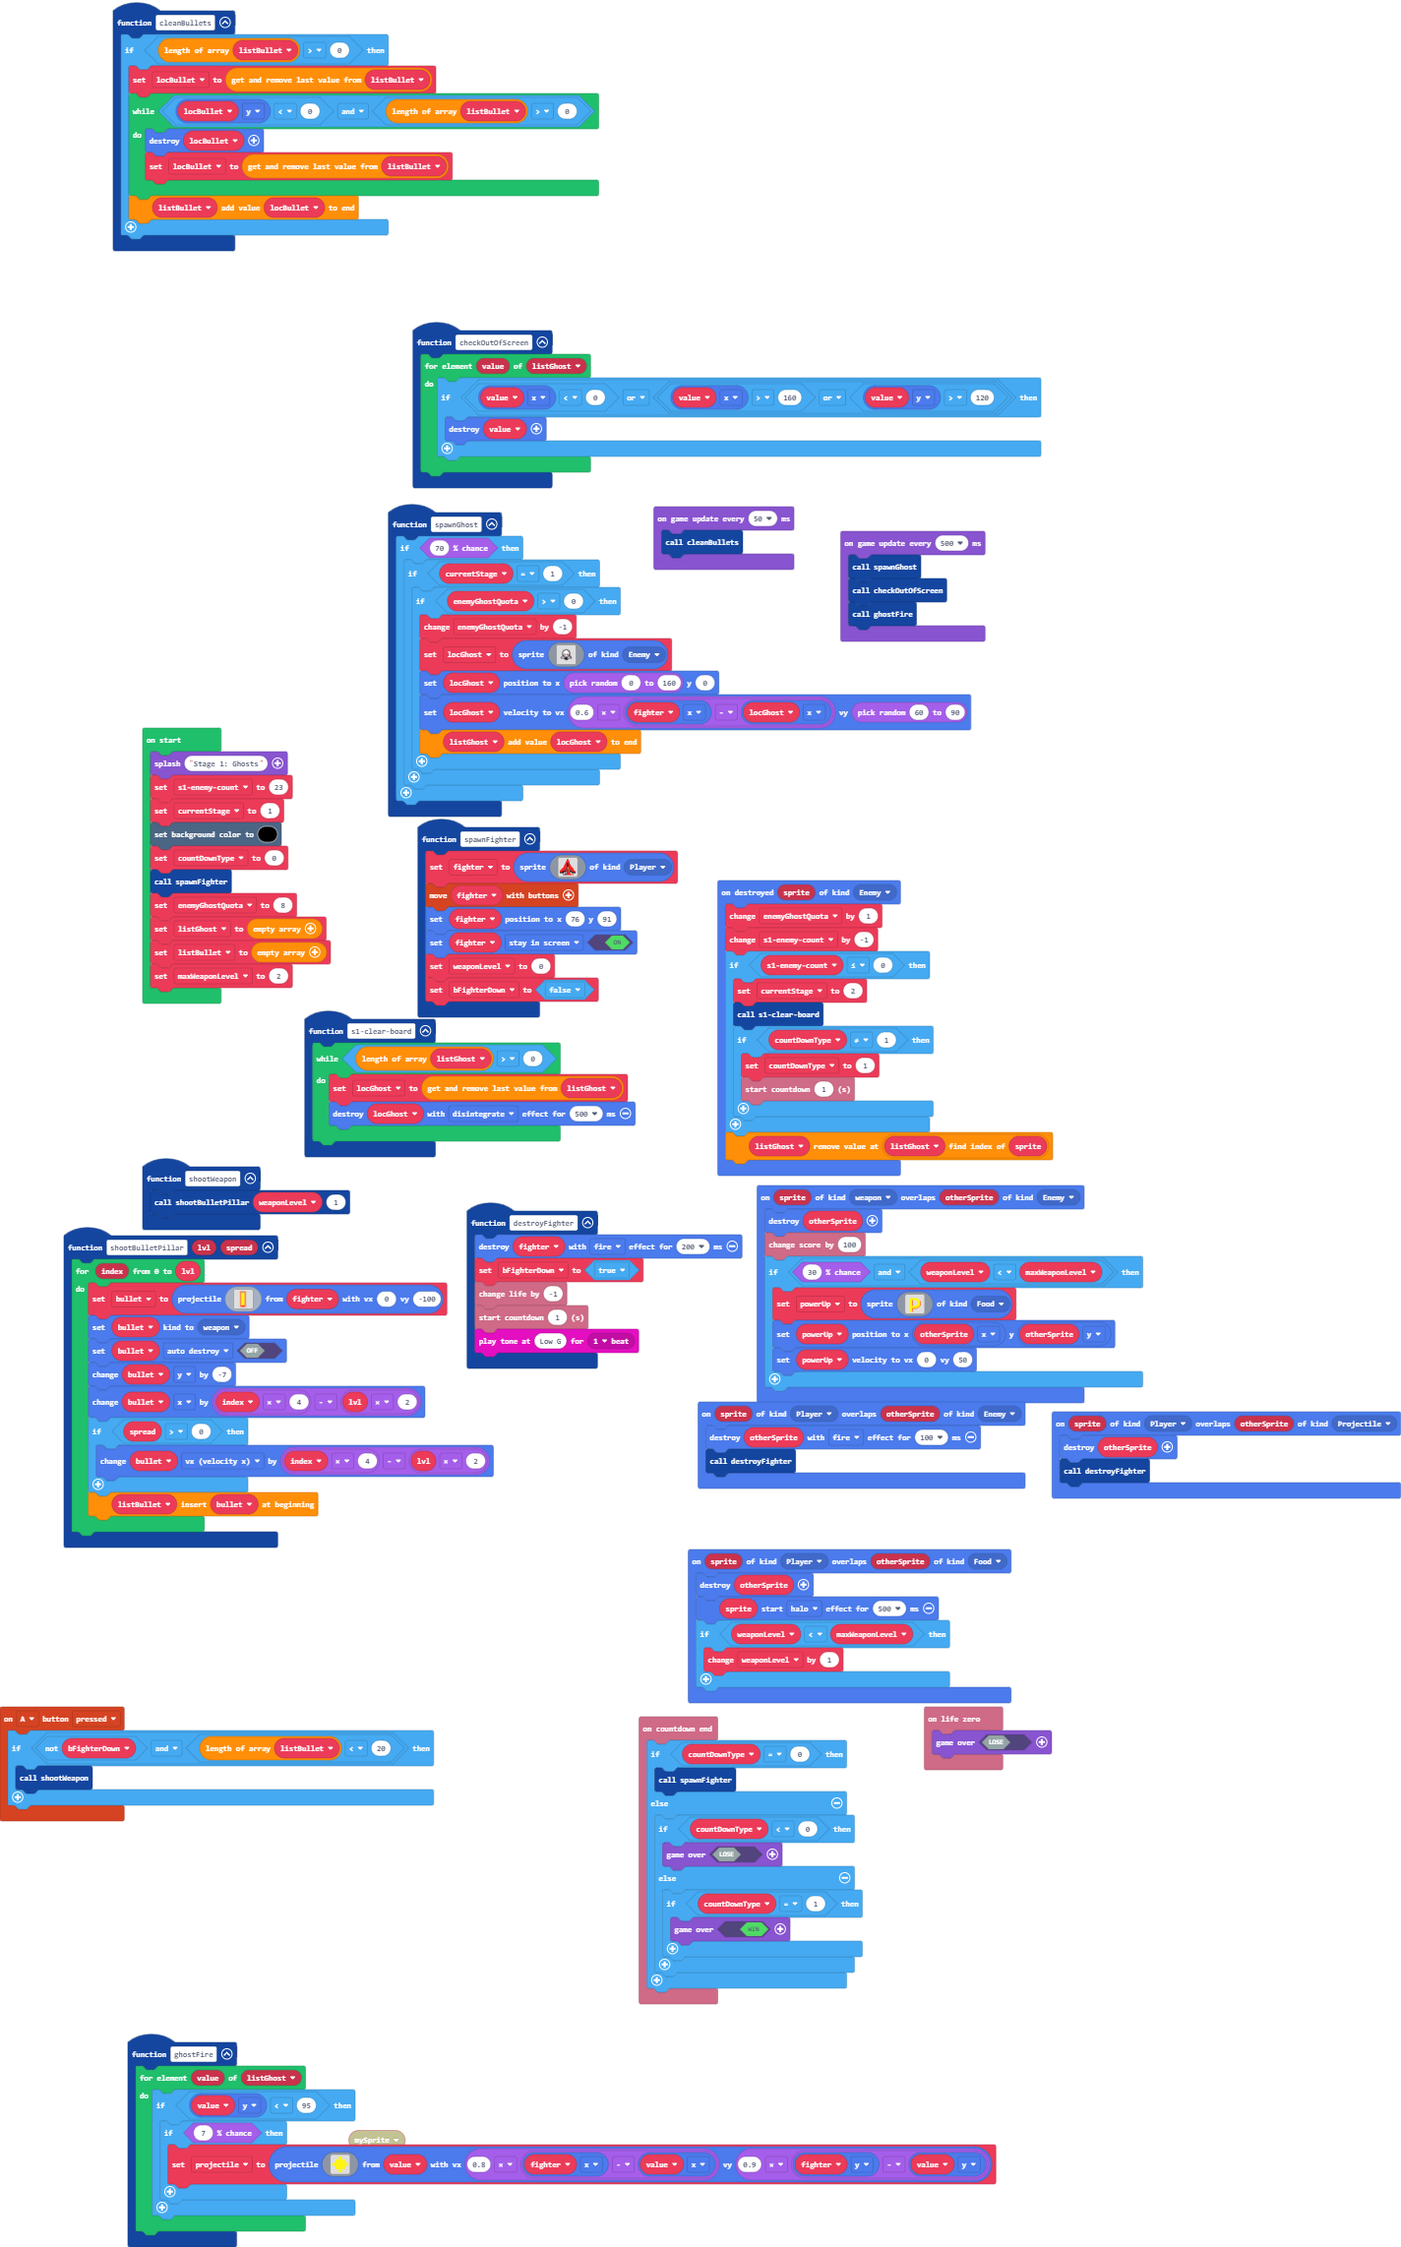
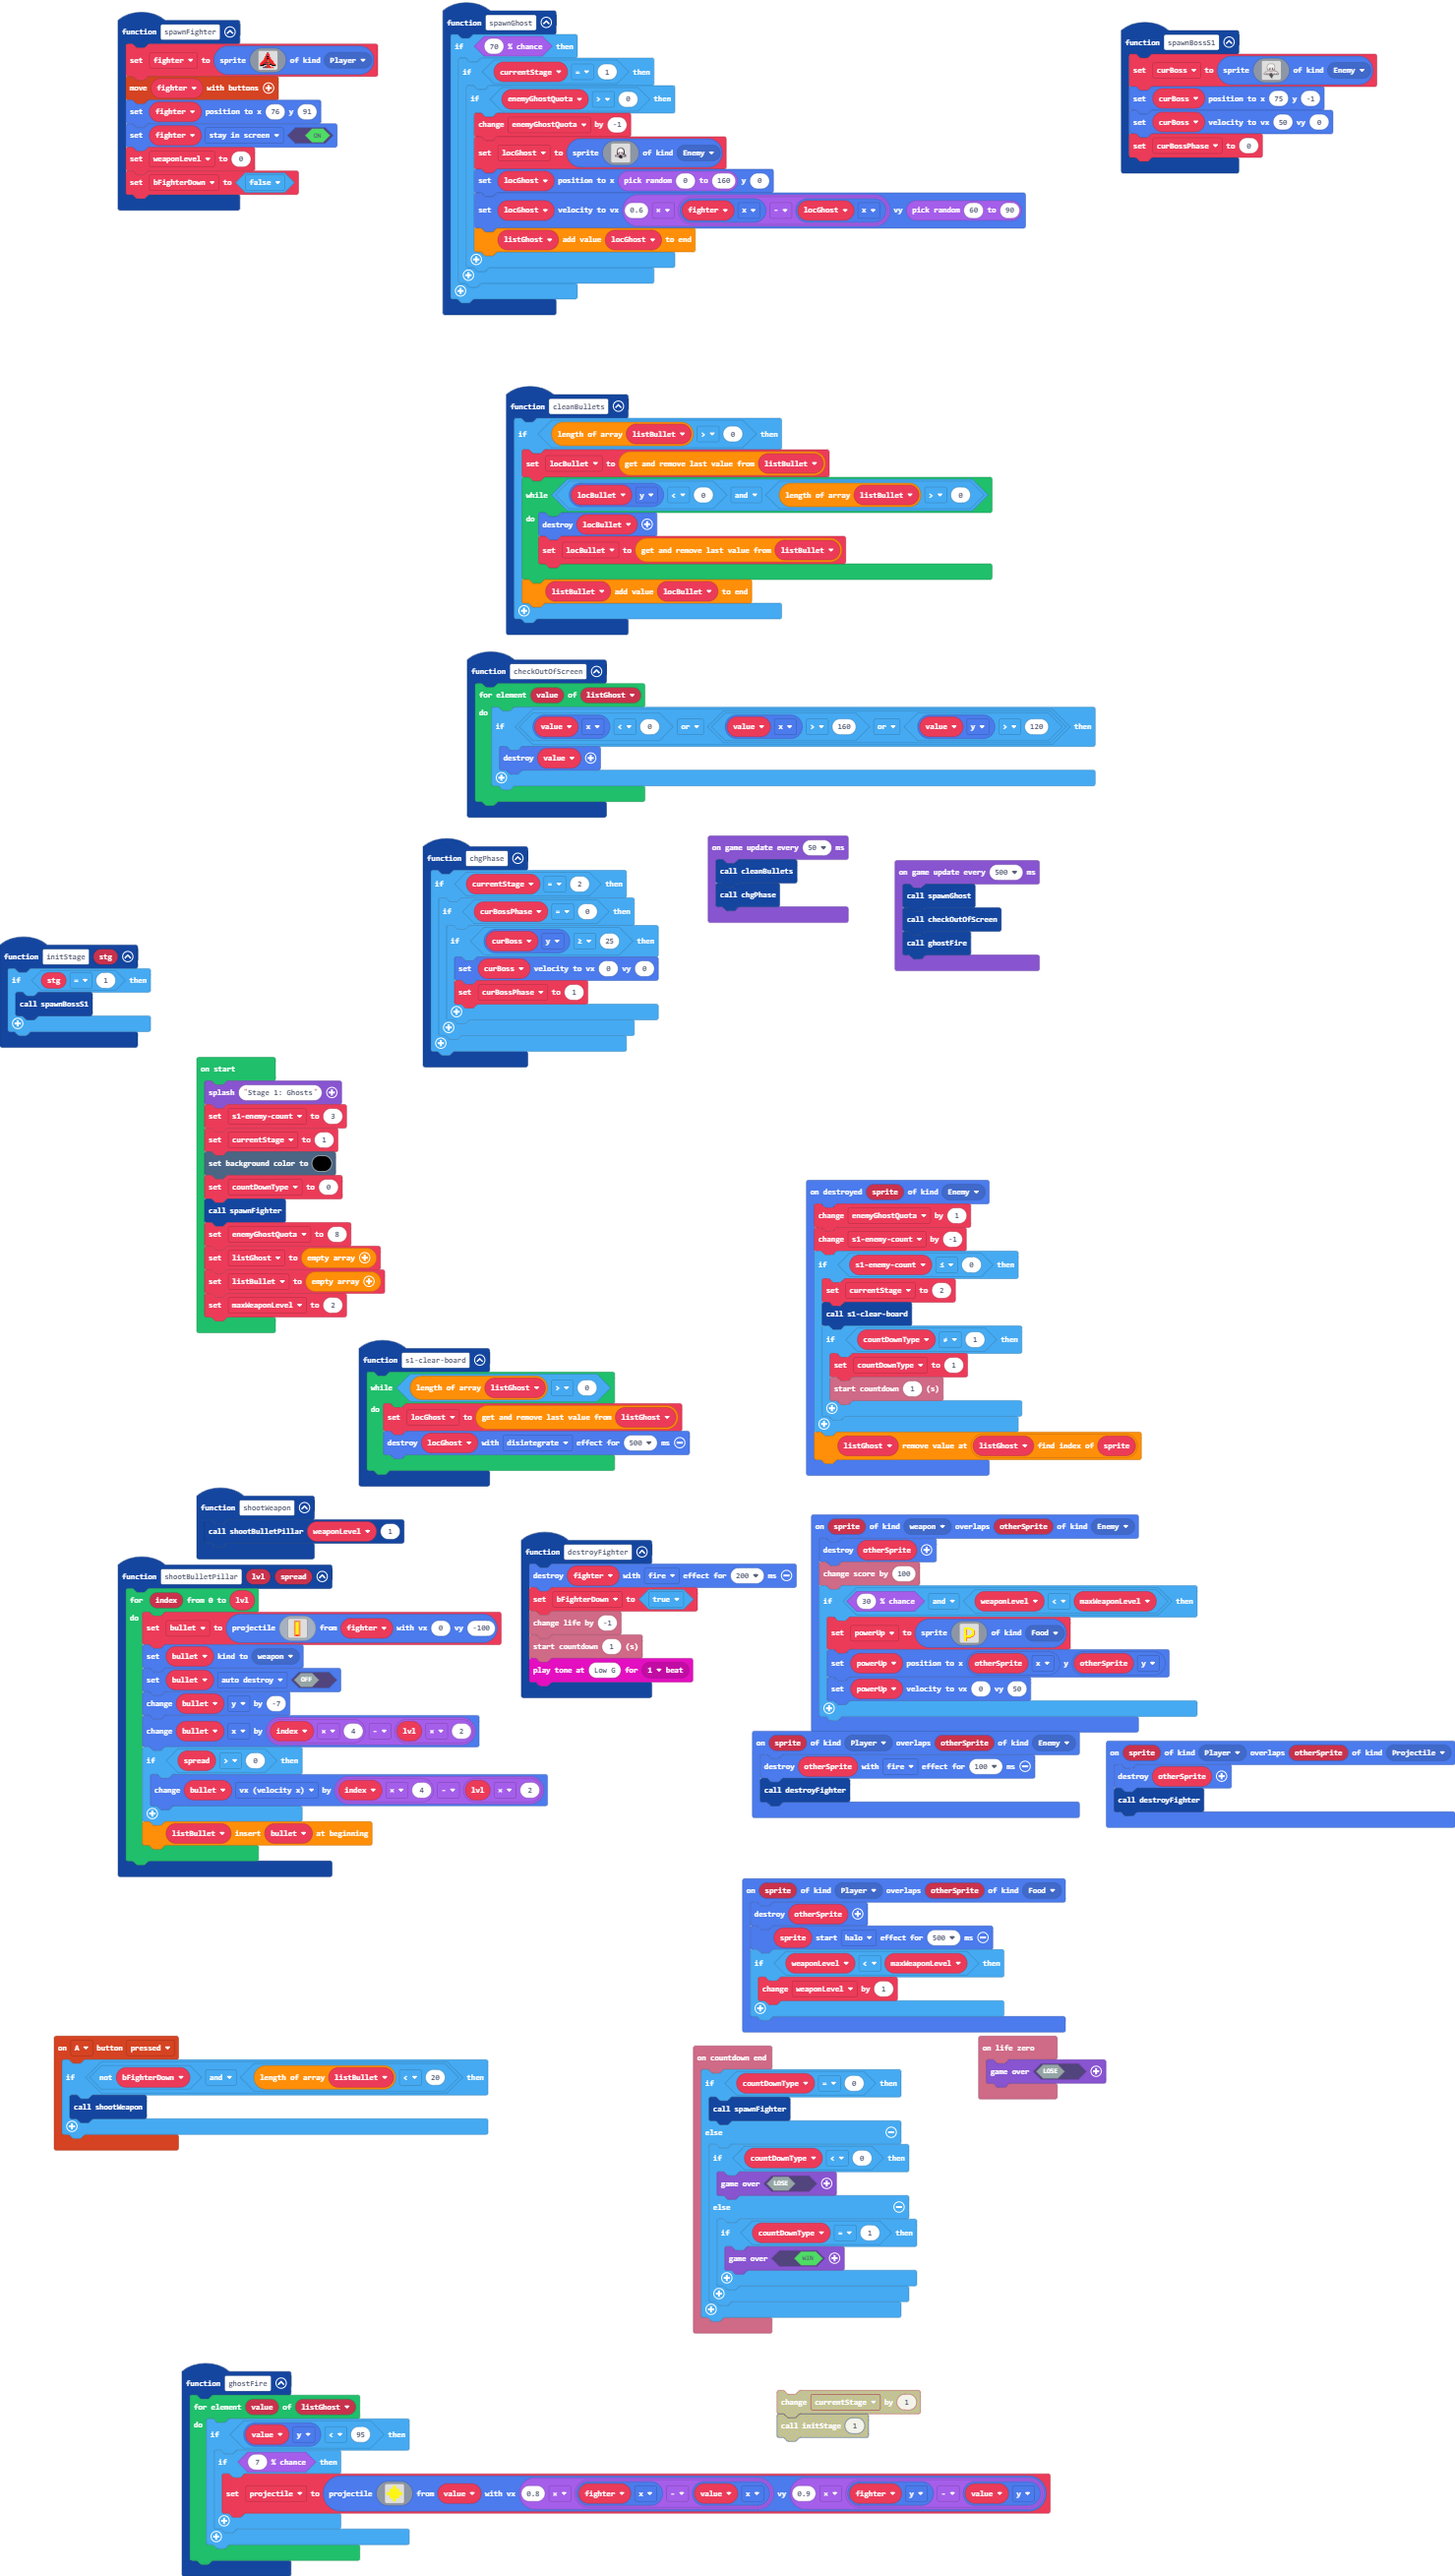
add boss at stage 1, in progress

diff --git a/main.ts b/main.ts
@@ -62,6 +62,11 @@ function cleanBullets () {
         listBullet.push(locBullet)
     }
 }
+function initStage (stg: number) {
+    if (stg == 1) {
+        spawnBossS1()
+    }
+}
 controller.A.onEvent(ControllerButtonEvent.Pressed, function () {
     if (!(bFighterDown) && listBullet.length < 20) {
         shootWeapon()
@@ -148,6 +153,16 @@ sprites.onOverlap(SpriteKind.Player, SpriteKind.Projectile, function (sprite, ot
 info.onLifeZero(function () {
     game.over(false)
 })
+function chgPhase () {
+    if (currentStage == 2) {
+        if (curBossPhase == 0) {
+            if (curBoss.y >= 25) {
+                curBoss.setVelocity(0, 0)
+                curBossPhase = 1
+            }
+        }
+    }
+}
 sprites.onOverlap(SpriteKind.Player, SpriteKind.Food, function (sprite, otherSprite) {
     otherSprite.destroy()
     sprite.startEffect(effects.halo, 500)
@@ -168,6 +183,61 @@ sprites.onDestroyed(SpriteKind.Enemy, function (sprite) {
     }
     listGhost.removeAt(listGhost.indexOf(sprite))
 })
+function spawnBossS1 () {
+    curBoss = sprites.create(img`
+        . . . . . . . . . . . . . . . . . . . . . . . . . . . . . . . . . . . . . . . . . . . . . . . . 
+        . . . . . . . . . . . . . . . . . . . . . . . . . . . . . . . . . . . . . . . . . . . . . . . . 
+        . . . . . . . . . . . . . . . . . . . . . . . . . . . . . . . . . . . . . . . . . . . . . . . . 
+        . . . . . . . . . . . . . . . . . . f f f f f f f f f f f . . . . . . . . . . . . . . . . . . . 
+        . . . . . . . . . . . . . . . . . f d d d d d d d d d d d f . . . . . . . . . . . . . . . . . . 
+        . . . . . . . . . . . . . . . f f d d 1 1 1 1 1 1 1 1 1 d d f f . . . . . . . . . . . . . . . . 
+        . . . . . . . . . . . . . . f 1 1 1 1 1 1 1 1 1 1 1 1 1 1 1 1 1 f . . . . . . . . . . . . . . . 
+        . . . . . . . . . . . . . f 1 1 1 1 1 1 1 1 1 1 1 1 1 1 1 1 1 1 1 f . . . . . . . . . . . . . . 
+        . . . . . . . . . . . . . f 1 1 1 1 1 1 1 1 1 1 1 1 1 1 1 1 1 1 1 f . . . . . . . . . . . . . . 
+        . . . . . . . . . . . . f 1 1 1 1 1 1 1 1 1 1 1 1 1 1 1 1 1 1 1 1 1 f . . . . . . . . . . . . . 
+        . . . . . . . . . . . f d d d 1 1 1 1 1 1 1 1 1 1 1 1 1 1 1 1 1 d d d f . . . . . . . . . . . . 
+        . . . . . . . . . . . f d d d 1 1 1 1 1 1 1 1 1 1 1 1 1 1 1 1 1 d d d f . . . . . . . . . . . . 
+        . . . . . . . . . . . f d d d 1 1 1 1 1 1 1 1 1 1 1 1 1 1 1 1 1 d d d f . . . . . . . . . . . . 
+        . . . . . . . . . . . f d d d 1 1 1 1 1 1 1 1 1 1 1 1 1 1 1 1 1 d d d f . . . . . . . . . . . . 
+        . . . . . . . . . . . f d d d 1 1 1 1 1 1 1 1 1 1 1 1 1 1 1 1 1 d d d f . . . . . . . . . . . . 
+        . . . . . . . . . . . f d d d 1 1 1 1 1 1 1 1 1 1 1 1 1 1 1 1 1 d d d f . . . . . . . . . . . . 
+        . . . . . . . . . . . f d d d 1 1 1 1 f f f 1 1 1 1 f f f 1 1 1 d d d f . . . . . . . . . . . . 
+        . . . . . . . . . . . f d d d 1 1 1 1 f f f 1 1 1 1 f f f 1 1 1 d d d f . . . . . . . . . . . . 
+        . . . . . . . . . . . f d d d d d d 1 f f f 1 1 1 1 f f f 1 1 1 d d d f . . . . . . . . . . . . 
+        . . . . . . . . . . . f c d d d d d 1 f f f 1 1 1 1 f f f 1 1 d d c c f . . . . . . . . . . . . 
+        . . . . . . . . . . . f c c d d d d c f f f 1 1 1 1 f f f c 1 d d c c f . . . . . . . . . . . . 
+        . . . . . . . . . . . . f c d d d d c f f f 1 1 1 1 f f f c d d c c f . . . . . . . . . . . . . 
+        . . . . . . . . . . . . . f c d d d d f f f 1 1 1 1 f f f d d c c f . . . . . . . . . . . . . . 
+        . . . . . . . . . . . . . f d d d d d d d d d d d d d d d d d c c f . . . . . . . . . . . . . . 
+        . . . . . . . . . . . . . . f d d d d d d d d d d d d d d d d d f . . . . . . . . . . . . . . . 
+        . . . . . . . . . . . . . . . f f d d c d c d c d c d c d d f f . . . . . . . . . . . . . . . . 
+        . . . . . . . . . . . f f f f 1 1 f d c d c d c d c d c d f 1 1 f f f f f f . f . . . . . . . . 
+        . . . . . . . . f f f f 1 1 1 1 1 1 f f f f f f f f f f f 1 1 1 1 1 1 1 f f f f f f . . . . . . 
+        . . . . . . f f f 1 1 1 1 1 1 1 1 1 1 1 1 1 1 1 1 1 1 1 1 1 1 1 1 1 1 1 1 1 1 1 1 f f . . . . . 
+        . . . . . f f 1 1 1 1 1 1 1 1 1 1 1 1 1 1 1 1 1 1 1 1 1 1 1 1 1 1 1 1 1 1 1 1 1 1 1 f f . . . . 
+        . . . f f f 1 1 d d d d d d d d d d d d 1 1 1 1 1 1 1 d d d d d d d d d 1 1 1 1 1 1 1 f f . . . 
+        . . . f 1 1 1 1 d d d d d d d d d d d d 1 1 1 1 1 1 1 d d d d d d d d d 1 1 1 1 1 1 1 1 f . . . 
+        . . f 1 1 1 1 1 d d d d d d d d d d d d f f f f f f f d d d d d d d d d 1 1 1 1 1 1 1 1 f f . . 
+        . f f b b b b b b b f f b b b 1 f 1 1 f f f f f f f f f 1 1 1 b b b f b b b b f f b b b 1 f . . 
+        . f 1 b b b b b b b f f b b b 1 f 1 1 f f f f f f f f f 1 1 1 b b b f b b b b f f b b b 1 1 f . 
+        . f f b b b b b b b f f b b b 1 f f 1 f f f f f f f f f 1 1 1 b b b f b b b b f f b b b 1 f f . 
+        . . f f f f f f f f f f f f f f f f f f f f f f f f f f f f f f f f f f f f f f f f f f f f . . 
+        . . . . . . . . . . . . . . . . . f f f f f f f f f f f f f f f f . . . . . . . . . . . f . . . 
+        . . . . . . . . . . . . . . . . . f f f f f f f f f f f f f . . . . . . . . . . . . . . . . . . 
+        . . . . . . . . . . . . . . . . . . f f f f f f f f f f . f . . . . . . . . . . . . . . . . . . 
+        . . . . . . . . . . . . . . . . . . . . f f f f f f f f f f . . . . . . . . . . . . . . . . . . 
+        . . . . . . . . . . . . . . . . . . . . f f f f f f f f f . . . . . . . . . . . . . . . . . . . 
+        . . . . . . . . . . . . . . . . . . . . f f f f f f f f f . . . . . . . . . . . . . . . . . . . 
+        . . . . . . . . . . . . . . . . . . . . f . f f f f f . . . . . . . . . . . . . . . . . . . . . 
+        . . . . . . . . . . . . . . . . . . . . . . f f f f f . . . . . . . . . . . . . . . . . . . . . 
+        . . . . . . . . . . . . . . . . . . . . . . . f f f f . . . . . . . . . . . . . . . . . . . . . 
+        . . . . . . . . . . . . . . . . . . . . . . . . f f f . . . . . . . . . . . . . . . . . . . . . 
+        . . . . . . . . . . . . . . . . . . . . . . . . . f f f f . . . . . . . . . . . . . . . . . . . 
+        `, SpriteKind.Enemy)
+    curBoss.setPosition(75, -1)
+    curBoss.setVelocity(50, 0)
+    curBossPhase = 0
+}
 function ghostFire () {
     for (let value of listGhost) {
         if (value.y < 95) {
@@ -213,6 +283,8 @@ sprites.onOverlap(SpriteKind.Player, SpriteKind.Enemy, function (sprite, otherSp
 })
 let bullet: Sprite = null
 let projectile: Sprite = null
+let curBoss: Sprite = null
+let curBossPhase = 0
 let locGhost: Sprite = null
 let locBullet: Sprite = null
 let bFighterDown = false
@@ -227,7 +299,7 @@ let countDownType = 0
 let currentStage = 0
 let s1enemycount = 0
 game.splash("Stage 1: Ghosts")
-s1enemycount = 23
+s1enemycount = 3
 currentStage = 1
 scene.setBackgroundColor(15)
 countDownType = 0
@@ -238,6 +310,7 @@ listBullet = []
 maxWeaponLevel = 2
 game.onUpdateInterval(50, function () {
     cleanBullets()
+    chgPhase()
 })
 game.onUpdateInterval(500, function () {
     spawnGhost()
